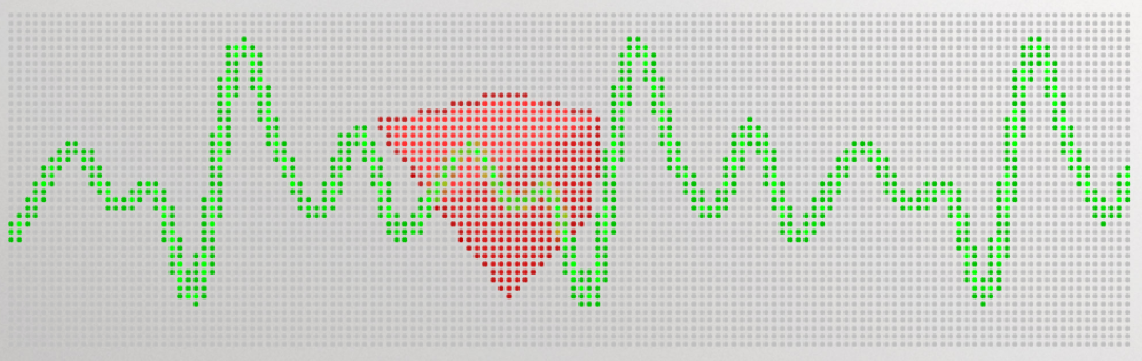
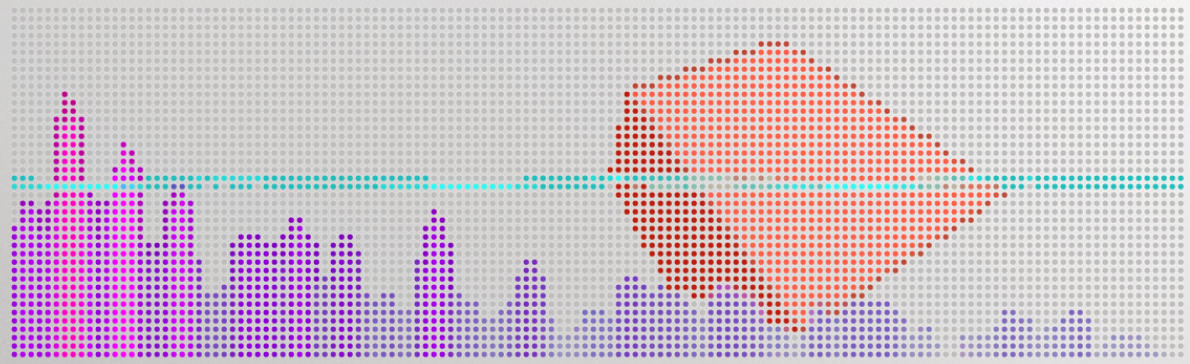
Added freq domain

diff --git a/src/app.js b/src/app.js
@@ -21,7 +21,7 @@ document.addEventListener('DOMContentLoaded', function() {
     camera.lookAt(new THREE.Vector3(0,0,0));
 
     var geometry = new THREE.BoxGeometry(1, 1, 1);
-    var material = new THREE.MeshPhongMaterial( { ambient: 0x000000, color: 0xFF0000, specular: 0xFFFFFF, shininess: 1 } );
+    var material = new THREE.MeshPhongMaterial( { color: 0xff0000, specular: 0xFFFFFF, shininess: 1 } );
     var cube = new THREE.Mesh( geometry, material );    
     scene.add( cube );
 
@@ -38,10 +38,22 @@ document.addEventListener('DOMContentLoaded', function() {
     guiCamera.position.set(0,0,500);
     guiCamera.up = new THREE.Vector3(0,1,0);
     guiCamera.lookAt(new THREE.Vector3(0,0,0));
-
-    // Setup microphone analyser
     var analyser=null, dataArray, bufferLength;
     var lineGeo, lineMat, line;
+
+    // Frequency visualization
+    var freqAnalyser, fregData, freqBufferLength;
+    var quads = [];
+    var quadGeo = new THREE.Geometry(); 
+    quadGeo.vertices.push(new THREE.Vector3(0.0, 0.0, 0.0));
+    quadGeo.vertices.push(new THREE.Vector3(1.0, 0.0, 0.0));
+    quadGeo.vertices.push(new THREE.Vector3(1.0, 1.0, 0.0));
+    quadGeo.vertices.push(new THREE.Vector3(0.0, 1.0, 0.0)); 
+    quadGeo.faces.push(new THREE.Face3(0, 1, 2)); 
+    quadGeo.faces.push(new THREE.Face3(0, 2, 3));
+    quadGeo.computeFaceNormals();
+
+    // Setup microphone analyser
 	if (navigator.mediaDevices.getUserMedia)
 	{
 		navigator.mediaDevices.getUserMedia({audio:true}).then(
@@ -50,19 +62,30 @@ document.addEventListener('DOMContentLoaded', function() {
                 let audioCtx = new(window.AudioContext || webkitAudioContext)();
                 console.log("sample rate: " + audioCtx.sampleRate);
                 var source = audioCtx.createMediaStreamSource(stream);
+
                 analyser = audioCtx.createAnalyser();
                 analyser.fftSize = 2048;
                 bufferLength = analyser.frequencyBinCount;
                 dataArray = new Uint8Array(bufferLength);
                 source.connect(analyser);
-
-                lineMat = new THREE.LineBasicMaterial( { color: 0x00ff00 } );
+                lineMat = new THREE.LineBasicMaterial( { color: 0x00faf6 } );
                 lineGeo = new THREE.Geometry();
                 for (let i = 0; i < bufferLength; i++) {
                     lineGeo.vertices.push(new THREE.Vector3(0, 0, 0));
                 }
                 line = new THREE.Line( lineGeo, lineMat );
                 guiScene.add(line);
+
+                freqAnalyser = audioCtx.createAnalyser();
+                freqAnalyser.fftSize = 256;
+                freqBufferLength = freqAnalyser.frequencyBinCount;
+                fregData = new Uint8Array(freqBufferLength);
+                source.connect(freqAnalyser);
+                for (let i = 0; i < freqBufferLength; i++) {
+                    var mesh = new THREE.Mesh( quadGeo, new THREE.MeshBasicMaterial( { color: 0x0000ff } ));
+                    quads.push(mesh);
+                    guiScene.add(mesh)
+                }
 			},
 			function (err)
 			{
@@ -76,24 +99,43 @@ document.addEventListener('DOMContentLoaded', function() {
     var update = function () {
         var rms = 0;
         if (analyser) {
-            let WIDTH = anypixel.config.width;
-            let HEIGHT = anypixel.config.height;
             analyser.getByteTimeDomainData(dataArray);
-            var sliceWidth = WIDTH * 1.0 / bufferLength;
+            let width = anypixel.config.width;
+            let halfHeight = anypixel.config.height/2.0;
+            var sliceWidth = width * 1.0 / bufferLength;
             var x = 0;
             for (var i = 0; i < bufferLength; i++)
             {
                 var v = (dataArray[i] - 128.0)/128.0;
-                var y = (HEIGHT/2) + (HEIGHT/2) * v * window.appOptions.gain;
-                lineGeo.vertices[i].set(x,y,0);
+                var y = halfHeight + halfHeight * v * window.appOptions.gain; 
+                lineGeo.vertices[i].set(x,y,200);
                 x += sliceWidth;
                 rms += v*v;
             }
             lineGeo.verticesNeedUpdate = true;
             rms = Math.sqrt(rms / bufferLength);
+
+            analyser.getByteFrequencyData(fregData);
+            let height = anypixel.config.height;
+            sliceWidth = width * 1.0 / freqBufferLength;
+            x = 0;
+            for (let i = 0; i < freqBufferLength; i++) {
+                let v = fregData[i]/255.0;
+                quads[i].position.set(x, 0, 100);
+                quads[i].scale.set(sliceWidth,Math.max(0.01,height*v),1);
+                var hsl = quads[i].material.color.getHSL(); // { h: 0, s: 0, l: 0 }
+                quads[i].material.color.setHSL(
+                    Math.max(0, Math.min(1, 0.66 + v*0.3)), // from blue to red
+                    Math.max(0, Math.min(1, v*2.0)),
+                    Math.max(0, Math.min(0.5, v*2.0))
+                );
+                x += sliceWidth;
+            }
         }
 
         cube.scale.set(1.0+rms,1.0+rms,1.0+rms); // bounce based on rms
+        var hsl = cube.material.color.getHSL(); // spin color wheel based on rms
+        cube.material.color.setHSL(Math.min(1, rms), hsl.s, hsl.l);
 
         var newSpeed = 1.0+rms*10;
         if (newSpeed > speed) { // spin faster based on signal rms
